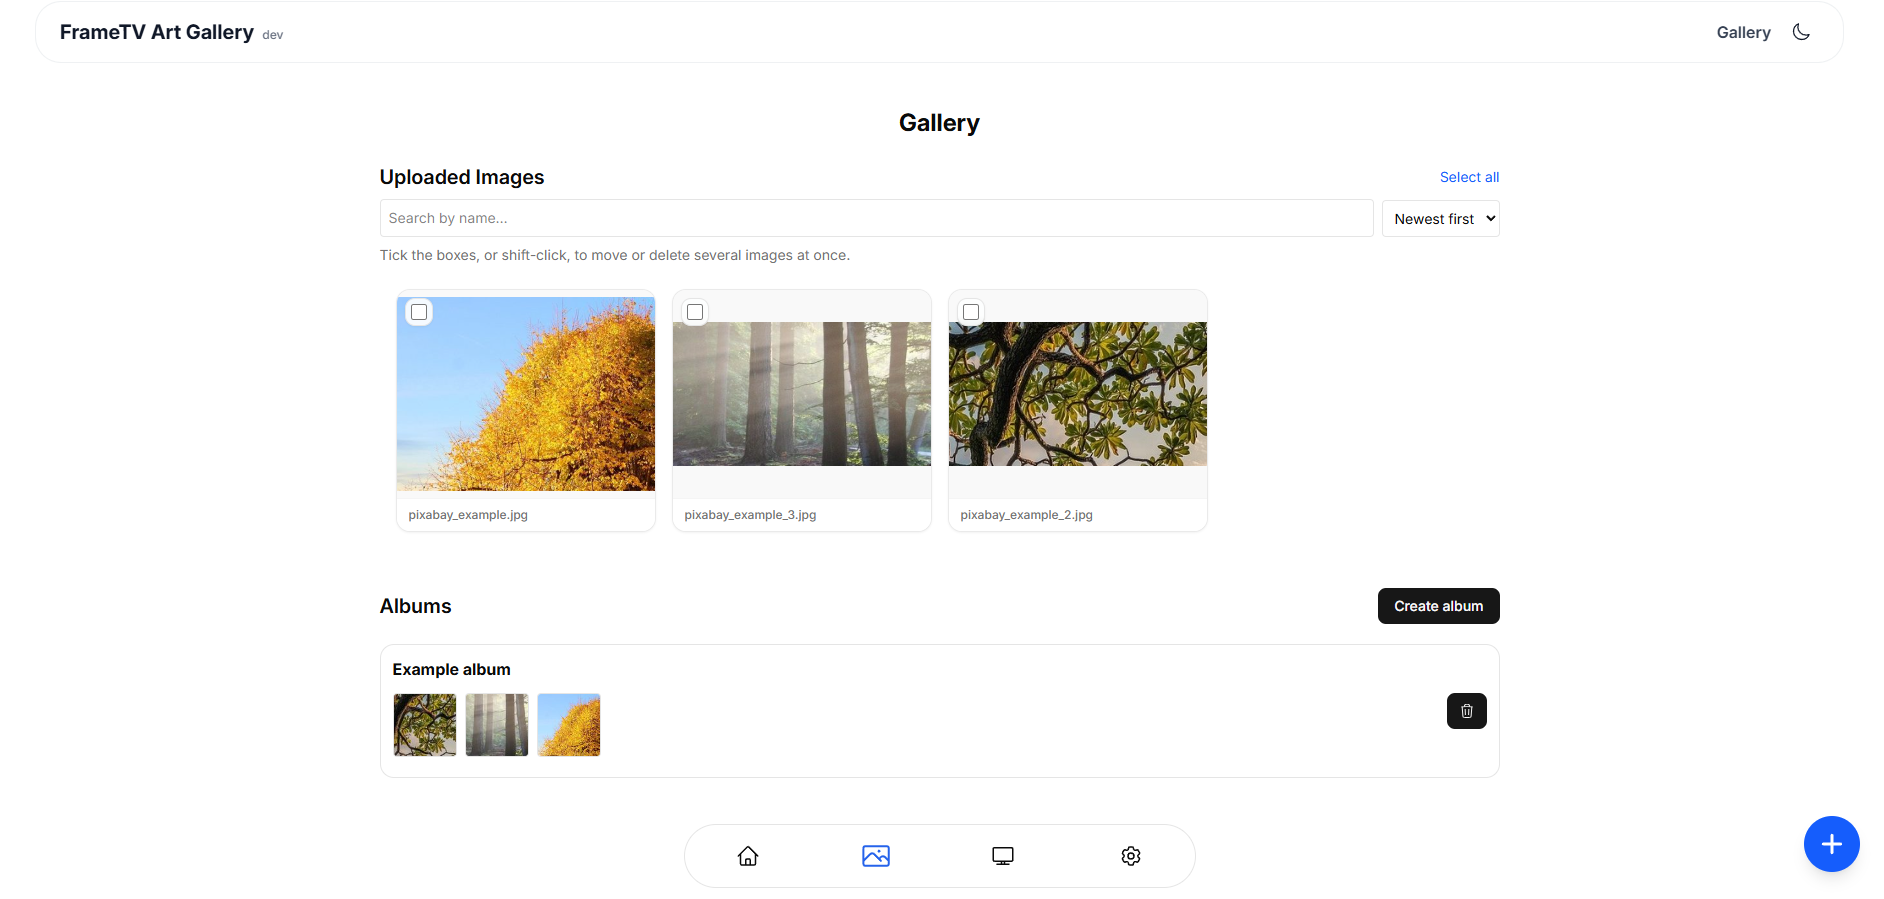
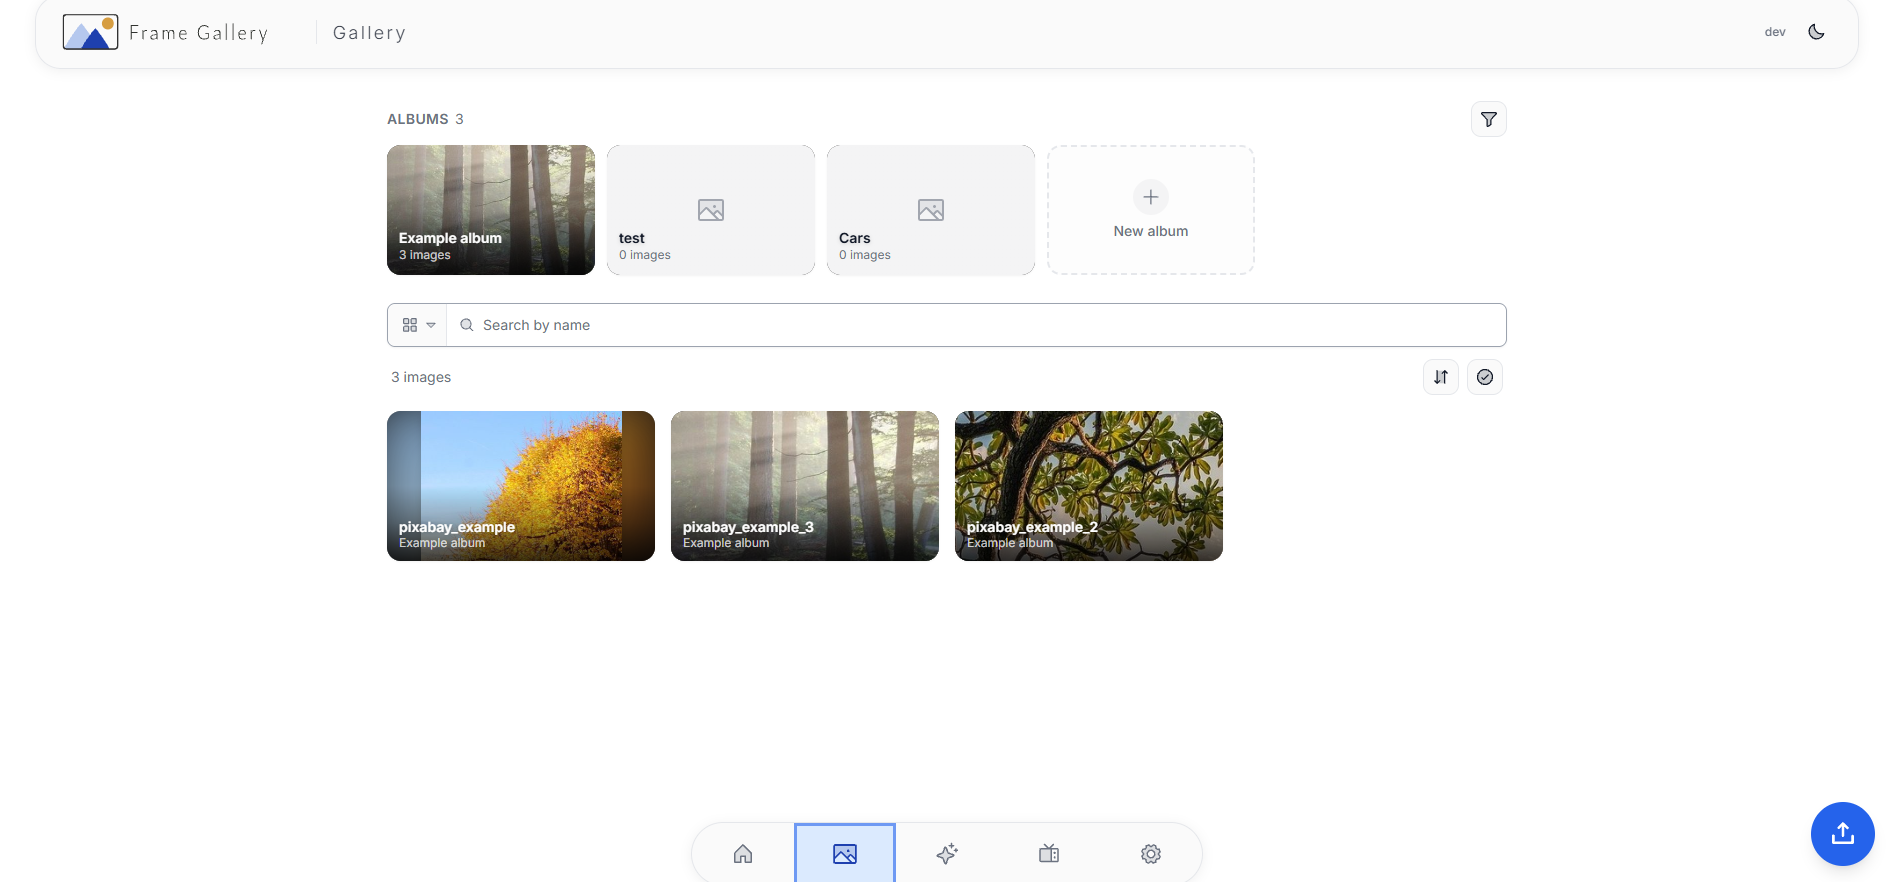
Update screenshots

diff --git a/README.md b/README.md
@@ -47,8 +47,9 @@ You can use any kind of image! Either upload your own personal photos or import 
 <p align="center">
   <img alt="Screenshot Home" src="docs/Screenshot_home_light.png" width="100%" />
   <br / >
-  <img alt="Screenshot Gallery" src="docs/Screenshot_gallery_light.png" width="49.6%" />
   <img alt="Screenshot TV Gallery" src="docs/Screenshot_tv_gallery_light.png" width="49.6%" />
+  <img alt="Screenshot TV Gallery" src="docs/Screenshot_discovery_light.png" width="49.6%" />
+  <img alt="Screenshot Gallery" src="docs/Screenshot_gallery_light.png" width="100%" />
 </p>
 The UI is also available in dark mode and is fully responsive for mobile devices.
 Gallery example images from https://pixabay.com/
@@ -88,7 +89,10 @@ The **Discover** tab searches free, high-resolution art and imports it straight 
 - **Supporting the sources**: while an artwork downloads, the progress window points to the source's support page. These collections are free because their institutions choose to share them.
 - **Keys**: most sources need no key or account. Smithsonian, Flickr, Pixabay and DeviantArt need a free one: switch the source on under **Settings, Discover, More sources** and paste the key there. It is stored on your server, never shown again, and the source appears in Discover once it is saved.
 
-Set `DISCOVER_CONTACT` (an email or URL) to tell the Art Institute who is making requests, as its API documentation asks. Thanks to the creator of Reframed for the great tool. Please tip them!
+> ⚠ **Personal Use Notice:** Some Discover sources are unofficial integrations intended for personal, private use only. They are not endorsed by or affiliated with the respective platforms and may be disabled or removed at any time upon request. Please respect the rights of the original artists and content providers.
+
+Set `DISCOVER_CONTACT` (an email or URL) to tell the Art Institute who is making requests, as its API documentation asks. 
+Thanks to the creator of Reframed for the great tool. Please tip them!
 
 # Installation
 
@@ -133,7 +137,17 @@ All optional, with sensible defaults. Set them as environment variables on the c
 
 ## Disclaimer (important!)
 
-frametv-art-gallery Disclaimer
+### Third-Party Artwork and Content
+
+Some artwork and image sources available through the Discover feature are provided by independent third-party platforms and websites. These integrations are unofficial, community-driven and intended for **personal, private use only**.
+
+We do not claim ownership of any third-party artwork or content. All rights remain with their respective authors, artists and copyright holders. The availability of these sources does not imply any affiliation, partnership or endorsement.
+
+**These integrations are provided without any guarantee of permanent availability and may be modified, disabled or removed at any time and without prior notice**, for example following a request from a copyright holder, content provider or platform operator.
+
+Users are responsible for ensuring that their use of downloaded content complies with applicable copyright laws and the respective source's terms of use.
+
+### frametv-art-gallery Disclaimer
 
 frametv-art-gallery is an unofficial, fun, open-source project and is **not affiliated with, endorsed by, or sponsored by Samsung** (or any other company). It is provided "as is" and use is entirely at your own risk. 
 
